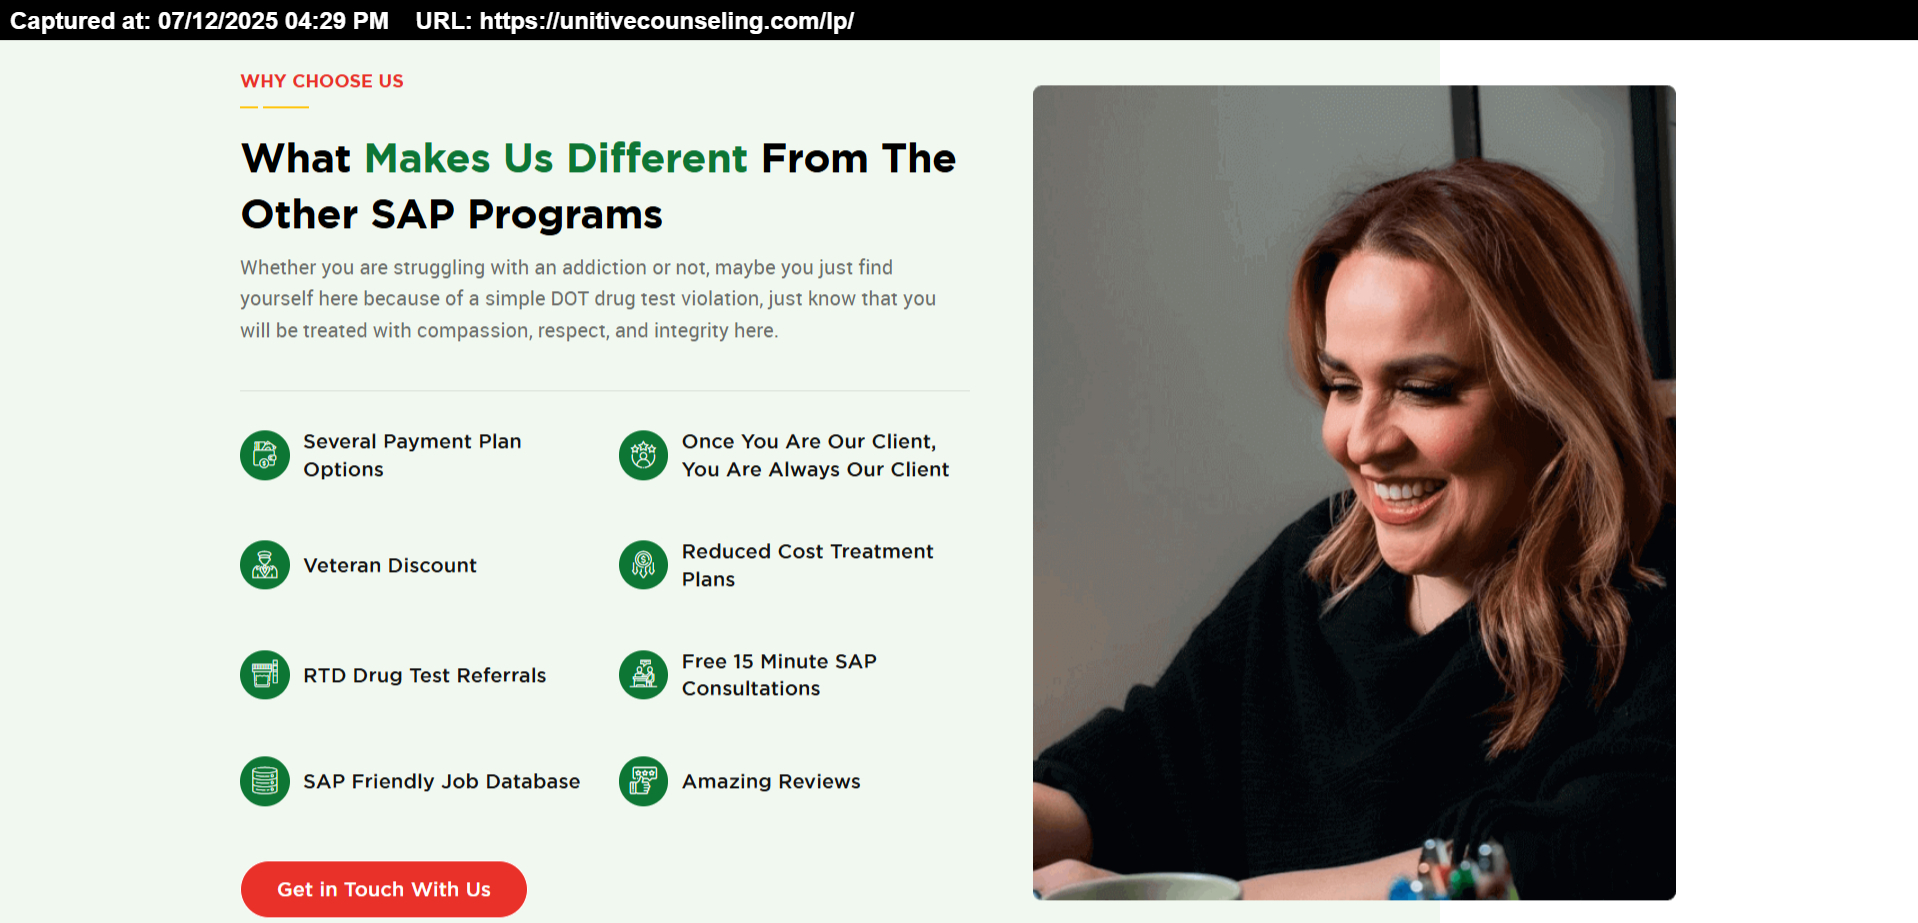
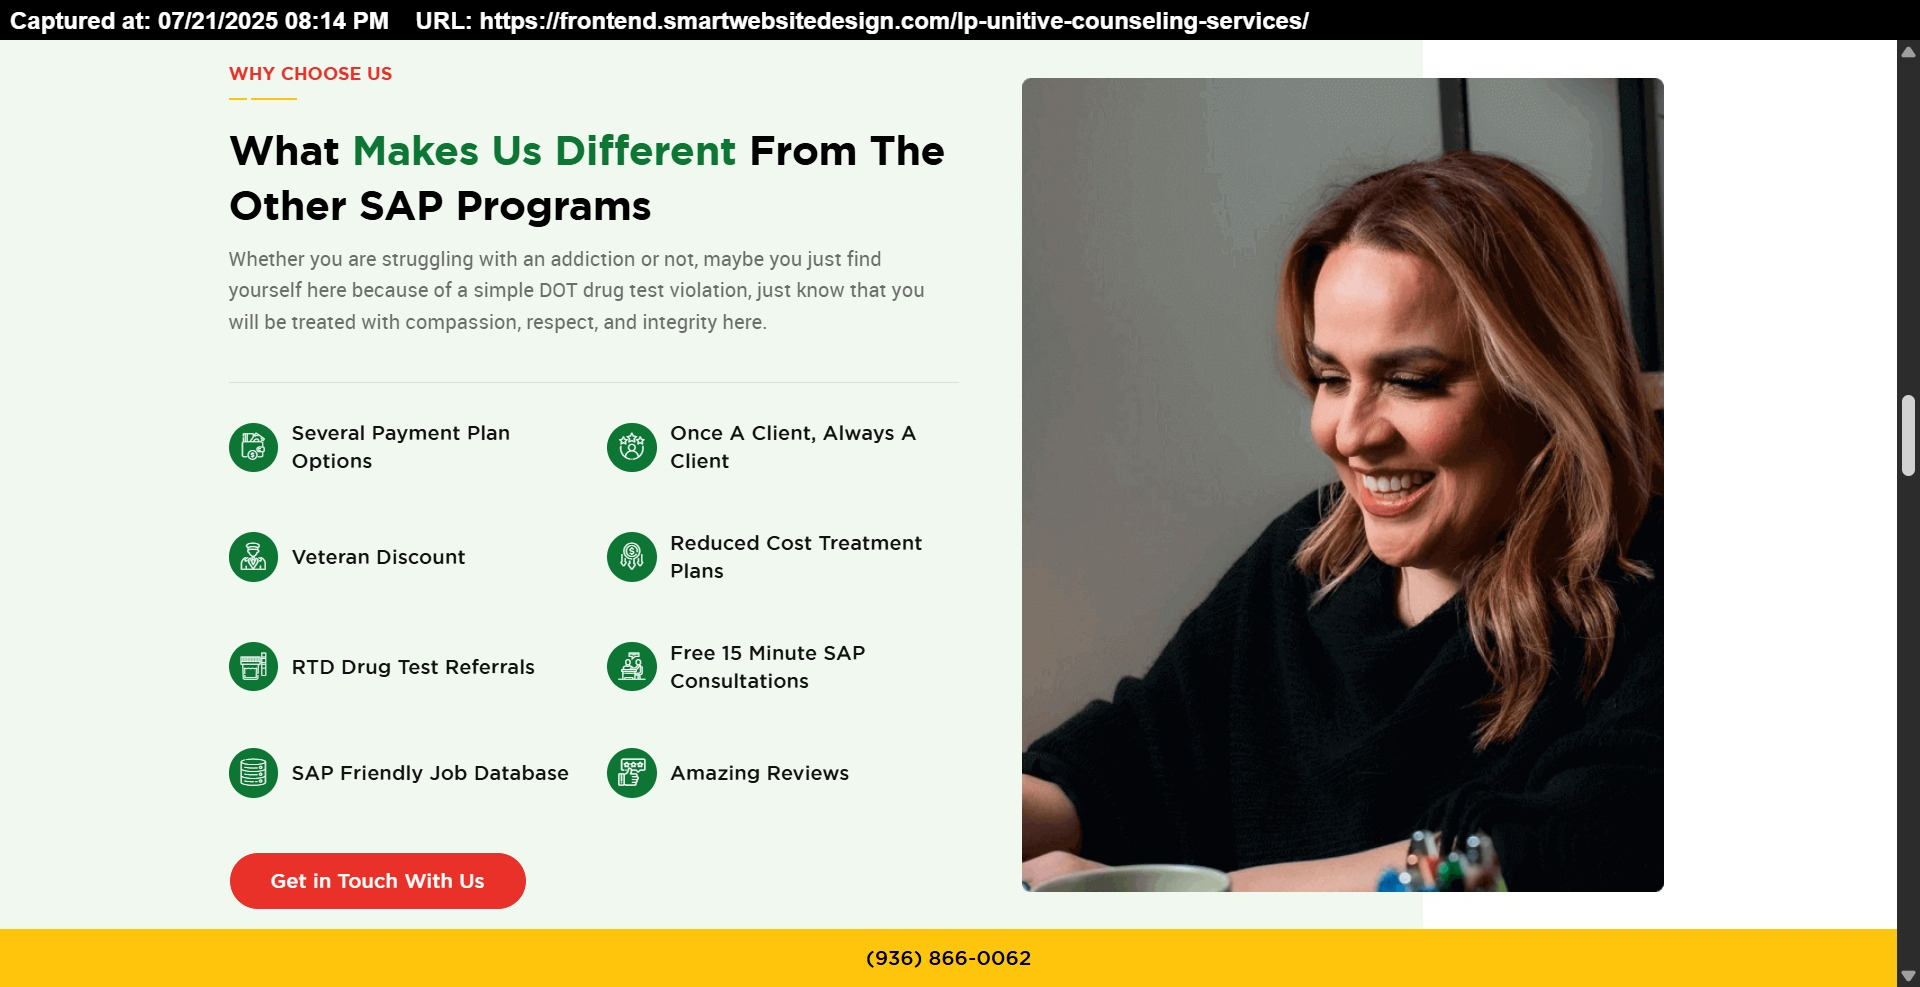
Two Column section added

Changed region(s): [[0.0, 0.0, 1.0, 1.0]]

diff --git a/src/components/Slider/slider.js b/src/components/Slider/slider.js
@@ -1,48 +1,39 @@
 'use client';
 import React from 'react'
-import SectionTitle from '../SectionTitle/sectionTitle';
 import { Swiper, SwiperSlide } from 'swiper/react';
-import DynamicSlider from './dynamicSlider';
+import DynamicSlider from './dynamic-slider';
 import sliderData from './slides.json';
 import { Autoplay, Navigation, Pagination } from 'swiper/modules';
 
 const Slider = () => {
   return (
     <>
-
-      <div className="py-16">
-        <SectionTitle
-          orangeText="Discover"
-          sectionTitle="Our Highlights"
-          descriptionText="Explore our top features, client success stories, and project showcases through this dynamic slider. Swipe to see what makes us stand out."
-        />
-        <Swiper
-          modules={[Navigation, Pagination, Autoplay]}
-          slidesPerView={1}
-          navigation
-          pagination={{ clickable: true }}
-          autoplay={{ delay: 800000 }}
-          loop={true}
-          breakpoints={{
-            768: { slidesPerView: 2 }
-          }}
-          className="px-4"
-        >
-          {sliderData.slides.map((slide, index) => (
-            <SwiperSlide key={index}>
-              <DynamicSlider
-                imageSrc={slide.imageSrc}
-                imgWidth={slide.imgWidth}
-                imgHeight={slide.imgHeight}
-                imgAlt={slide.imgAlt}
-                copyCode={slide.copyCode}
-                jscopyCode={slide.jscopyCode}
-              />
-            </SwiperSlide>
-          ))}
-        </Swiper>
-      </div>
-
+      <Swiper
+        modules={[Navigation, Pagination, Autoplay]}
+        slidesPerView={1}
+        pagination={{ clickable: true }}
+        spaceBetween={40}
+        autoplay={{ delay: 800000 }}
+        loop={true}
+        autoHeight={true}
+        breakpoints={{
+          768: { slidesPerView: 2 }
+        }}
+        className="px-4"
+      >
+        {sliderData.slides.map((slide, index) => (
+          <SwiperSlide key={index}>
+            <DynamicSlider
+              imageSrc={slide.imageSrc}
+              imgWidth={slide.imgWidth}
+              imgHeight={slide.imgHeight}
+              imgAlt={slide.imgAlt}
+              copyCode={slide.copyCode}
+              jscopyCode={slide.jscopyCode}
+            />
+          </SwiperSlide>
+        ))}
+      </Swiper>
     </>
   )
 }

diff --git a/src/components/Hero/hero.js b/src/components/Hero/hero.js
@@ -4,20 +4,20 @@ import { Swiper, SwiperSlide } from 'swiper/react';
 import { Pagination } from 'swiper/modules';
 import 'swiper/css';
 import 'swiper/css/pagination';
-import DynamicHero from './dynamicHero';
-import heroData from './heroCode.json'
+import DynamicHero from './dynamic-hero';
+import heroData from './hero-code.json'
 
 const Hero = () => {
   return (
     <>
       <div className="container">
         <div className="flex flex-wrap justify-between -mx-5">
-          <div className="w-full lg:w-1/2 px-5 [&_h1]:text-white [&_h1]:leading-[1.2] max-lg:mb-10">
+          <div className="w-full lg:w-[45%] px-5 [&_h1]:text-white [&_h1]:leading-[1.2] max-lg:mb-10">
             <h1>No More Starting From Scratch.</h1>
             <p>Copy, Paste, Customize & Build websites with production-ready code. Access ready-made UI snippets and components to supercharge your web development.</p>
           </div>
 
-          <div className="w-full lg:w-1/2 px-5 hero-slider">
+          <div className="w-full lg:w-[55%] px-5 hero-slider">
             <Swiper
               pagination={{
                 clickable: true
@@ -30,7 +30,7 @@ const Hero = () => {
             >
               {heroData.heroCode1.map((item, index) => {
                 return (
-                  <SwiperSlide key={index} className='!h-full'>
+                  <SwiperSlide key={index}>
                     <DynamicHero
                       imageSrc={item.imageSrc}
                       imgWidth={item.imgWidth}

diff --git a/src/app/page.js b/src/app/page.js
@@ -1,15 +1,37 @@
 import Hero from "@/components/Hero/hero";
+import SectionTitle from "@/components/SectionTitle/section-title";
 import Slider from "@/components/Slider/slider";
-import TwoCol from "@/components/TwoCol/twoCol";
+import TwoCol from "@/components/TwoCol";
 
 export default function Home() {
   return (
     <>
-      <section className="bg-[var(--primary)] pt-40 lg:pt-48 pb-16 text-white">
+      <section className="bg-[var(--primary)] pt-40 lg:pt-48 pb-5 lg:pb-16 text-white">
         <Hero />
       </section>
-      <Slider />
-      <TwoCol />
+      {/* Hero */}
+
+      <section className="py-10 md:py-14 lg:py-20">
+        <div className="container">
+          <SectionTitle
+            orangeText="Discover"
+            sectionTitle="Our Highlights"
+            descriptionText="Explore our top features, client success stories, and project showcases through this dynamic slider. Swipe to see what makes us stand out."
+          />
+          <Slider />
+        </div>
+      </section>
+
+      <section className="pt-5 pb-10 md:pb-14 lg:pb-20">
+        <div className="container">
+          <SectionTitle
+            orangeText="Two"
+            sectionTitle="Column Sections"
+            descriptionText="Explore our top features, client success stories, and project showcases through this dynamic slider. Swipe to see what makes us stand out."
+          />
+          <TwoCol />
+        </div>
+      </section>
     </>
   );
 }

diff --git a/src/components/TwoCol/index.js b/src/components/TwoCol/index.js
@@ -1,0 +1,43 @@
+'use client';
+import React from 'react'
+import { Swiper, SwiperSlide } from 'swiper/react';
+import twoColDataJson from './two-col.json';
+import { Autoplay, Navigation, Pagination } from 'swiper/modules';
+import DynamicSlider from '../Slider/dynamic-slider';
+import 'swiper/css';
+
+const TwoCol = () => {
+ return (
+  <>
+   <Swiper
+    modules={[Navigation, Pagination, Autoplay]}
+    slidesPerView={1}
+    spaceBetween={40}
+    navigation
+    pagination={{ clickable: true }}
+    autoplay={{ delay: 800000 }}
+    loop={true}
+    autoHeight={true}
+    breakpoints={{
+     768: { slidesPerView: 2 }
+    }}
+    className="px-4"
+   >
+    {twoColDataJson.twoColData.map((slide, index) => (
+     <SwiperSlide key={index}>
+      <DynamicSlider
+       imageSrc={slide.imageSrc}
+       imgWidth={slide.imgWidth}
+       imgHeight={slide.imgHeight}
+       imgAlt={slide.imgAlt}
+       copyCode={slide.copyCode}
+       jscopyCode={slide.jscopyCode}
+      />
+     </SwiperSlide>
+    ))}
+   </Swiper>
+  </>
+ )
+}
+
+export default TwoCol;

diff --git a/src/components/SectionTitle/section-title.js b/src/components/SectionTitle/section-title.js
@@ -1,0 +1,18 @@
+import React from 'react'
+
+const SectionTitle = ({ sectionTitle, descriptionText, orangeText }) => {
+ return (
+  <>
+   <div className="pb-5 lg:pb-10 text-center max-w-3xl mx-auto [&_h2]:mb-1">
+    {sectionTitle &&
+     <h2><span className='text-[var(--orange)]'>{orangeText}</span> {sectionTitle}</h2>
+    }
+    {descriptionText &&
+     <p>{descriptionText}</p>
+    }
+   </div>
+  </>
+ )
+}
+
+export default SectionTitle;

diff --git a/src/components/Hero/dynamic-hero.js b/src/components/Hero/dynamic-hero.js
@@ -14,7 +14,7 @@ const DynamicHero = (
 ) => {
  return (
   <>
-   <div className="relative [&_img]:w-full [&_img]:h-full [&_img]:object-cover h-full">
+   <div className="relative [&_img]:w-full [&_img]:h-full min-h-max [&_img]:object-cover h-full">
     <img src={imageSrc} width={imgWidth} height={imgHeight} alt={imgAlt} loading='lazy' />
     <CopyCode
      code={heroCode}

diff --git a/src/components/Slider/dynamic-slider.js b/src/components/Slider/dynamic-slider.js
@@ -11,7 +11,7 @@ const DynamicSlider = ({
 }) => {
  return (
   <>
-   <div className="container [&_img]:w-full">
+   <div className="[&_img]:w-full [&_img]:h-full">
     <img src={imageSrc} width={imgWidth} height={imgHeight} alt={imgAlt} loading='lazy' />
     <div className="absolute bottom-5 right-5 z-[1] flex gap-2 mr-5">
      <CopyCode

diff --git a/src/assets/styles/slider.css b/src/assets/styles/slider.css
@@ -25,7 +25,7 @@
   items-center
 }
 
-.hero-slider .swiper-wrapper{
+.hero-slider{
   @apply
- lg:min-h-[280px]
+ max-lg:max-h-max
 }
